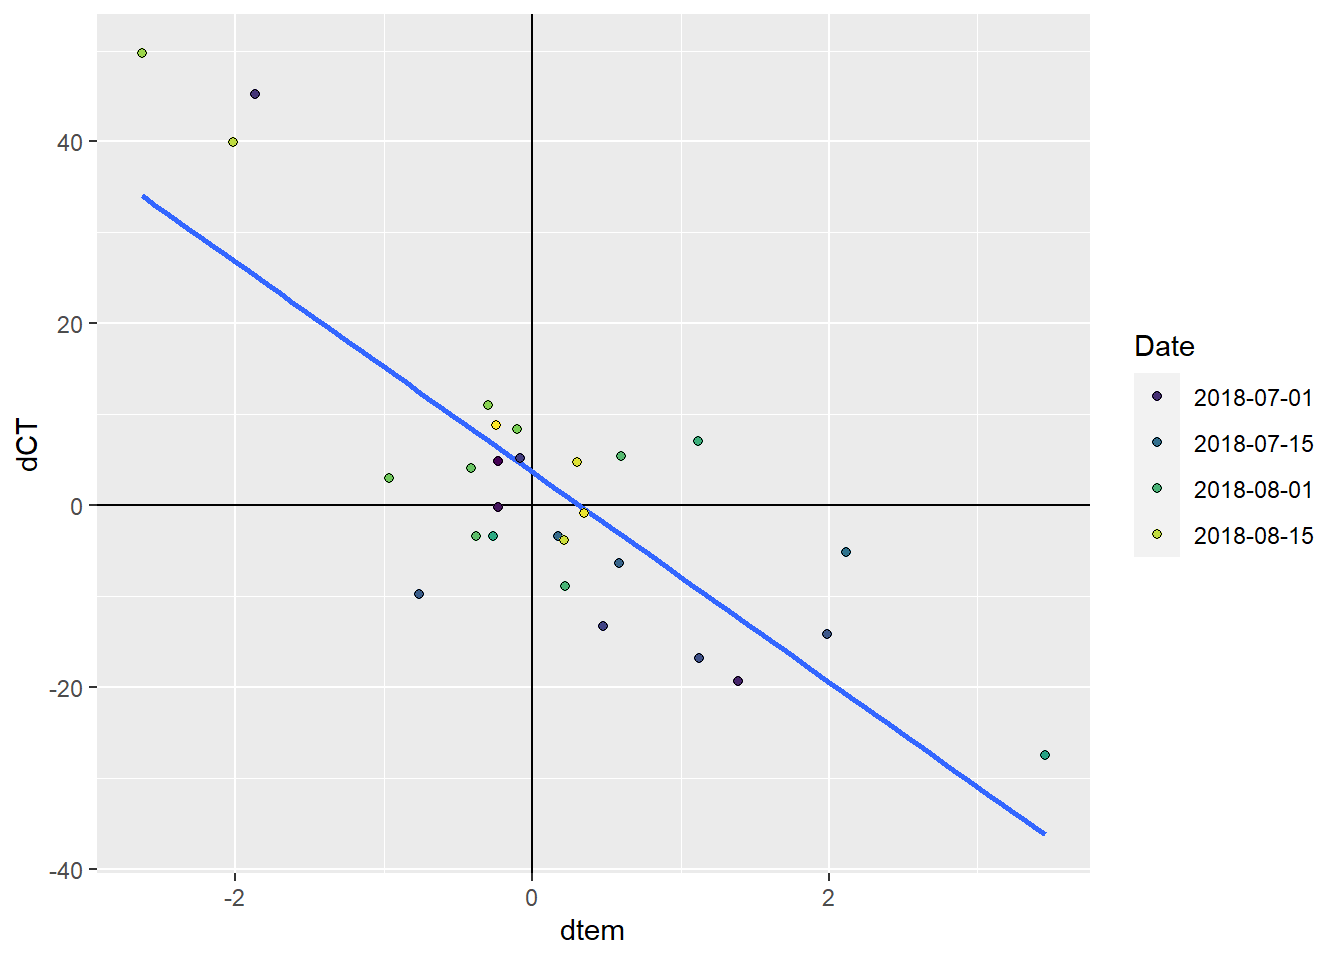
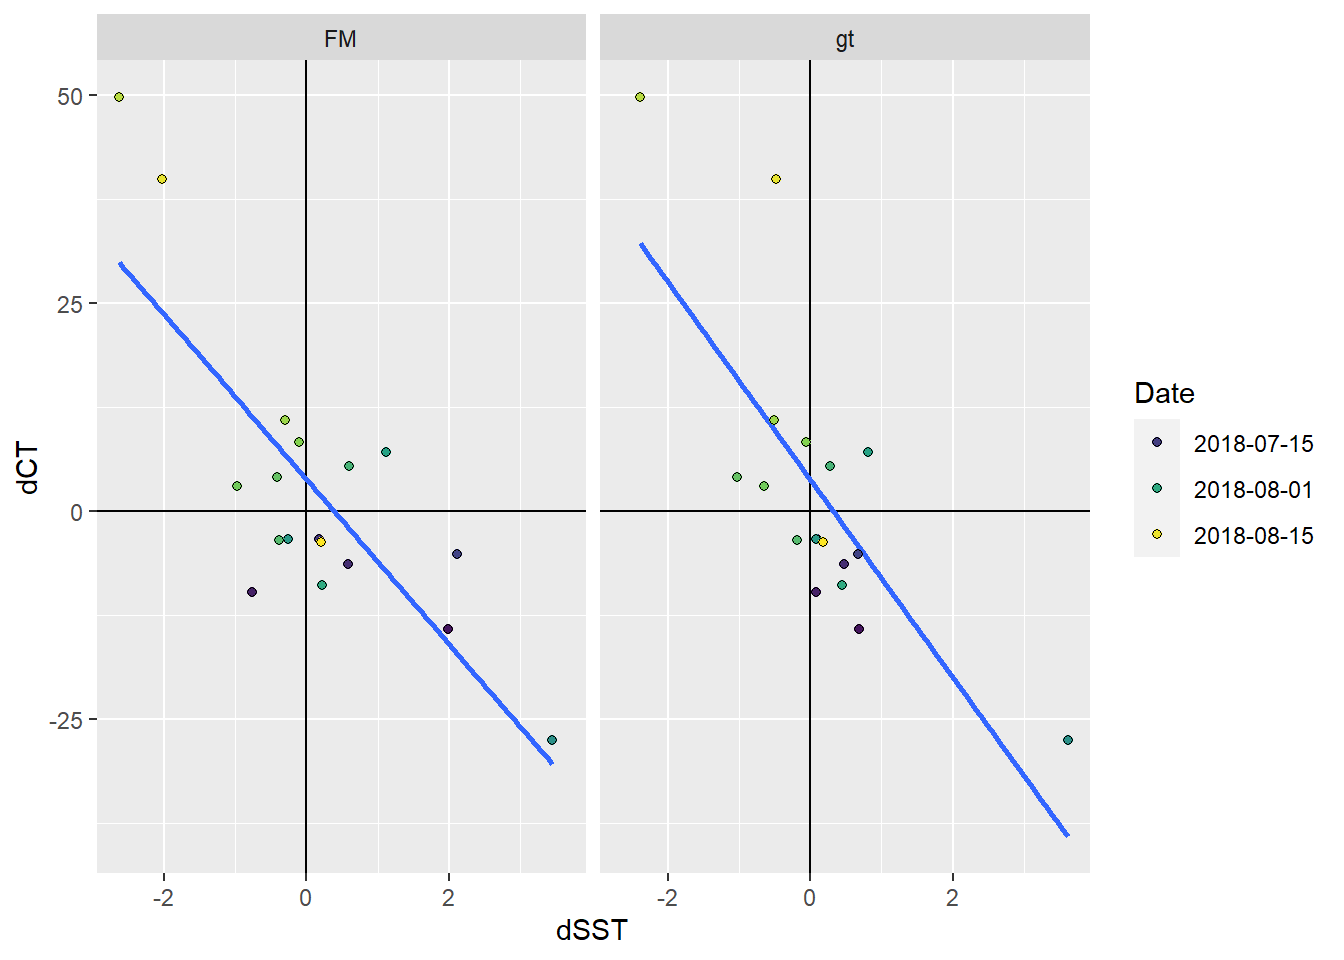
Build site.

diff --git a/docs/Finnmaid+GETM.html b/docs/Finnmaid+GETM.html
@@ -560,10 +560,10 @@ This reproducible <a href="http://rmarkdown.rstudio.com">R Markdown</a> analysis
 <div class="panel panel-default">
 <div class="panel-heading">
 <p class="panel-title">
-<a data-toggle="collapse" data-parent="#workflowr-checks" href="#strongRepositoryversionstrongahrefhttpsgithubcomjensdanielmuellerBloomSailtree1e2508a27700db15a1bd63f1249151f6987c72a2targetblank1e2508aa"> <span class="glyphicon glyphicon-ok text-success" aria-hidden="true"></span> <strong>Repository version:</strong> <a href="https://github.com/jens-daniel-mueller/BloomSail/tree/1e2508a27700db15a1bd63f1249151f6987c72a2" target="_blank">1e2508a</a> </a>
+<a data-toggle="collapse" data-parent="#workflowr-checks" href="#strongRepositoryversionstrongahrefhttpsgithubcomjensdanielmuellerBloomSailtree5f33d21b9a22a1074537c1c3e4600f842a6c1a98targetblank5f33d21a"> <span class="glyphicon glyphicon-ok text-success" aria-hidden="true"></span> <strong>Repository version:</strong> <a href="https://github.com/jens-daniel-mueller/BloomSail/tree/5f33d21b9a22a1074537c1c3e4600f842a6c1a98" target="_blank">5f33d21</a> </a>
 </p>
 </div>
[2 lines of base64/hex data omitted]
 <div class="panel-body">
 <p>
 Great! You are using Git for version control. Tracking code development and connecting the code version to the results is critical for reproducibility. The version displayed above was the version of the Git repository at the time these results were generated. <br><br> Note that you need to be careful to ensure that all relevant files for the analysis have been committed to Git prior to generating the results (you can use <code>wflow_publish</code> or <code>wflow_git_commit</code>). workflowr only checks the R Markdown file, but you know if there are other scripts or data files that it depends on. Below is the status of the Git repository when the results were generated:
@@ -605,7 +605,8 @@ library(lubridate)
 library(here)
 library(seacarb)
 library(oce)
-library(patchwork)</code></pre>
+library(patchwork)
+library(zoo)</code></pre>
 <pre class="r"><code># route
 select_route &lt;- &quot;E&quot;
 
@@ -932,45 +933,142 @@ rm(FM_ts_mean, FM_ts_sd)</code></pre>
 </div>
 <div id="ct-vs-temperature" class="section level1">
 <h1><span class="header-section-number">5</span> C<sub>T</sub> vs temperature</h1>
+<div id="sst-time-series" class="section level2">
+<h2><span class="header-section-number">5.1</span> SST time series</h2>
+<pre class="r"><code>FM_ts %&gt;% 
+  filter(parameter == &quot;tem&quot;) %&gt;% 
+  ggplot()+
+  geom_rect(data = fixed_values, aes(xmin=start, xmax=end, ymin=-Inf, ymax=Inf), alpha=0.2)+
+  geom_path(aes(x=date, y=mean, ymax=mean+sd, ymin=mean-sd))+
+  geom_ribbon(aes(x=date, y=mean, ymax=mean+sd, ymin=mean-sd), alpha=0.5)+
+  geom_point(aes(x=date, y=mean, col=&quot;Finnmaid&quot;))+
+  geom_path(data = gt_2d_jun_aug, aes(x=date_time, y=SST, col=&quot;GETM, 3h&quot;))+
+  geom_path(data = gt_2d_jun_aug_daily, aes(x=date_time, y=SST, col=&quot;GETM, daily&quot;))+
+  scale_color_brewer(palette = &quot;Set1&quot;, name=&quot;&quot;)+
+  labs(x=&quot;&quot;, y=&quot;SST (°C)&quot;)+
+  theme_bw()</code></pre>
+<p><img src="figure/Finnmaid+GETM.Rmd/plot_FM_gt_temp_timeseries-1.png" width="672" style="display: block; margin: auto;" /></p>
+</div>
+<div id="dct-vs-dsst" class="section level2">
+<h2><span class="header-section-number">5.2</span> dC<sub>T</sub> vs dSST</h2>
 <p>As primary production (negative changes in C<sub>T</sub>) and increase in seawater temperature have a common driver (light), the relation between both changes was investigated.</p>
+<p>The following analysis is restricted to the BloomSail period.</p>
 <pre class="r"><code>CT_tem &lt;- FM_ts %&gt;%
+  filter(date &gt; fixed_values$start,
+         date &lt; fixed_values$end) %&gt;% 
   filter(parameter %in% c(&quot;tem&quot;, &quot;CT&quot;)) %&gt;% 
   select(date, parameter, mean) %&gt;% 
-  pivot_wider(values_from = mean, names_from = parameter)
+  pivot_wider(values_from = mean, names_from = parameter) %&gt;% 
+  set_names(c(&quot;date_time&quot;, &quot;FM&quot;, &quot;CT&quot;))
+
+CT_tem &lt;- full_join(CT_tem,
+                    gt_2d_jun_aug_daily %&gt;% select(date_time, gt = SST))
 
 CT_tem &lt;- CT_tem %&gt;% 
-  arrange(date) %&gt;%
-  mutate(dCT = CT - lag(CT),
-         dtem = tem - lag(tem),
-         sign = if_else(dCT &lt; 0, &quot;neg&quot;, &quot;pos&quot;)) %&gt;% 
+  arrange(date_time) %&gt;%
+  mutate(gt = na.approx(gt)) %&gt;% 
   drop_na()
 
+CT_tem &lt;- CT_tem %&gt;% 
+  pivot_longer(cols = c(FM, gt), values_to = &quot;SST&quot;, names_to = &quot;obs&quot;)
 
-lab_dates &lt;- pretty(CT_tem$date)
+CT_tem &lt;- CT_tem %&gt;% 
+  group_by(obs) %&gt;% 
+  arrange(date_time) %&gt;% 
+  mutate(dCT = CT - lag(CT),
+         dSST = SST - lag(SST),
+         sign = if_else(dCT &lt; 0, &quot;neg&quot;, &quot;pos&quot;)) %&gt;% 
+  ungroup()
+
+
+lab_dates &lt;- pretty(CT_tem$date_time)
 
 CT_tem %&gt;% 
-  filter(date &gt; start_date,
-         date &lt; end_date) %&gt;% 
-  arrange(date) %&gt;% 
   ggplot()+
   geom_hline(yintercept = 0)+
   geom_vline(xintercept = 0)+
-  geom_smooth(aes(dtem, dCT), method = &quot;lm&quot;, se=FALSE)+
-  geom_point(aes(dtem, dCT, fill=as.numeric(date)), shape=21)+
+  geom_smooth(aes(dSST, dCT), method = &quot;lm&quot;, se=FALSE)+
+  geom_point(aes(dSST, dCT, fill=as.numeric(date_time)), shape=21)+
   scale_fill_viridis_c(breaks = as.numeric(lab_dates),
                         labels = lab_dates,
                         name=&quot;Date&quot;)+
-  guides(fill = guide_legend(override.aes=list(shape=21)))</code></pre>
+  guides(fill = guide_legend(override.aes=list(shape=21)))+
+  facet_wrap(~obs)</code></pre>
 <p><img src="figure/Finnmaid+GETM.Rmd/CT_vs_temperature-1.png" width="672" style="display: block; margin: auto;" /></p>
+</div>
 </div>
 <div id="ncp" class="section level1">
 <h1><span class="header-section-number">6</span> NCP</h1>
 <div id="mld-approach" class="section level2">
 <h2><span class="header-section-number">6.1</span> MLD approach</h2>
 <p>Use dCT/dtem from Finnmaid, MLD from GETM</p>
+<pre class="r"><code>NCP_MLD &lt;- FM_ts %&gt;%
+  filter(date &gt; fixed_values$start,
+         date &lt; fixed_values$end) %&gt;% 
+  filter(parameter %in% c(&quot;tem&quot;, &quot;CT&quot;)) %&gt;% 
+  select(date, parameter, mean) %&gt;% 
+  pivot_wider(values_from = mean, names_from = parameter) %&gt;% 
+  set_names(c(&quot;date_time&quot;, &quot;SST&quot;, &quot;CT&quot;))
+
+NCP_MLD &lt;- full_join(NCP_MLD,
+                     gt_2d_jun_aug_daily %&gt;% select(-c(SSS, SST, U_10)))
+
+NCP_MLD &lt;- NCP_MLD %&gt;% 
+  pivot_longer(cols = 4:8, values_to = &quot;MLD&quot;, names_to = &quot;Parameter&quot;) %&gt;% 
+  arrange(date_time) %&gt;%
+  group_by(Parameter) %&gt;% 
+  mutate(MLD = na.approx(MLD)) %&gt;%
+  ungroup()
+
+NCP_MLD %&gt;% 
+  ggplot()+
+  geom_rect(data = fixed_values, aes(xmin=start, xmax=end, ymin=-Inf, ymax=Inf), alpha=0.2)+
+  geom_line(aes(date_time, MLD, col=Parameter))+
+  geom_point(data = NCP_MLD %&gt;% drop_na, aes(date_time, MLD, col=Parameter))+
+  scale_color_brewer(palette = &quot;Set1&quot;)+
+  labs(x=&quot;&quot;, y=&quot;MLD (m)&quot;)+
+  theme_bw()</code></pre>
+<p><img src="figure/Finnmaid+GETM.Rmd/NCP_MLD-1.png" width="672" style="display: block; margin: auto;" /></p>
+<pre class="r"><code>NCP_MLD &lt;- NCP_MLD %&gt;% 
+  drop_na() %&gt;% 
+  group_by(Parameter) %&gt;% 
+  arrange(date_time) %&gt;% 
+  mutate(dCT = CT - lag(CT),
+         dSST = SST - lag(SST),
+         dNCP = dCT * MLD / 1000,
+         NCP_cum = cumsum(replace_na(dNCP, 0))) %&gt;% 
+  ungroup()</code></pre>
+</div>
+<div id="incremental-and-cumulative-timeseries" class="section level2">
+<h2><span class="header-section-number">6.2</span> Incremental and cumulative timeseries</h2>
+<p>Total incremental and cumulative C<sub>T</sub> changes inbetween cruise dates were calculated.</p>
+<pre class="r"><code>p_iNCP &lt;- NCP_MLD %&gt;% 
+  ggplot(aes(date_time, dNCP, fill= Parameter))+
+  geom_hline(yintercept = 0)+
+  geom_col(col=&quot;black&quot;, position = &quot;dodge&quot;)+
+  scale_y_continuous(breaks = seq(-100, 100, 0.2))+
+  labs(y=&quot;integrated, directional CT changes [mol/m2]&quot;, x=&quot;date&quot;)
+
+p_iNCPcum &lt;-  NCP_MLD %&gt;% 
+  ggplot(aes(date_time,  NCP_cum, 
+             fill= Parameter))+
+  geom_area(position = &quot;identity&quot;, col=&quot;black&quot;)+
+  geom_hline(yintercept = 0)+
+  scale_fill_viridis_d()+
+  scale_y_continuous(breaks = seq(-100, 100, 0.2))+
+  facet_grid(Parameter~., scales = &quot;free_y&quot;, space = &quot;free_y&quot;)+
+  theme(strip.background = element_blank(),
+        strip.text = element_blank())+
+  labs(y=&quot;integrated, cumulative, directional CT changes [mol/m2]&quot;, x=&quot;date&quot;)
+
+
+(p_iNCP / p_iNCPcum)+
+  plot_layout(guides = &#39;collect&#39;, heights = c(1, 2))</code></pre>
+<p><img src="figure/Finnmaid+GETM.Rmd/plot_integrated_NCP_timeseries-1.png" width="672" style="display: block; margin: auto;" /></p>
+<pre class="r"><code>rm(p_iNCP, p_iNCPcum)</code></pre>
 </div>
 <div id="delta-t-appraoch" class="section level2">
-<h2><span class="header-section-number">6.2</span> delta T appraoch</h2>
+<h2><span class="header-section-number">6.3</span> delta T appraoch</h2>
 <p>Use dCT/dtem from Finnmaid/GETM, T-profiles from GETM</p>
 <br>
 <p>
@@ -997,11 +1095,11 @@ attached base packages:
 [1] stats     graphics  grDevices utils     datasets  methods   base     
 
 other attached packages:
- [1] patchwork_1.0.0 seacarb_3.2.12  oce_1.2-0       gsw_1.0-5      
- [5] testthat_2.3.1  here_0.1        lubridate_1.7.4 vroom_1.2.0    
- [9] ncdf4_1.17      forcats_0.4.0   stringr_1.4.0   dplyr_0.8.3    
-[13] purrr_0.3.3     readr_1.3.1     tidyr_1.0.0     tibble_2.1.3   
-[17] ggplot2_3.3.0   tidyverse_1.3.0
+ [1] zoo_1.8-6       patchwork_1.0.0 seacarb_3.2.12  oce_1.2-0      
+ [5] gsw_1.0-5       testthat_2.3.1  here_0.1        lubridate_1.7.4
+ [9] vroom_1.2.0     ncdf4_1.17      forcats_0.4.0   stringr_1.4.0  
+[13] dplyr_0.8.3     purrr_0.3.3     readr_1.3.1     tidyr_1.0.0    
+[17] tibble_2.1.3    ggplot2_3.3.0   tidyverse_1.3.0
 
 loaded via a namespace (and not attached):
  [1] Rcpp_1.0.2         lattice_0.20-35    assertthat_0.2.1   zeallot_0.1.0     
